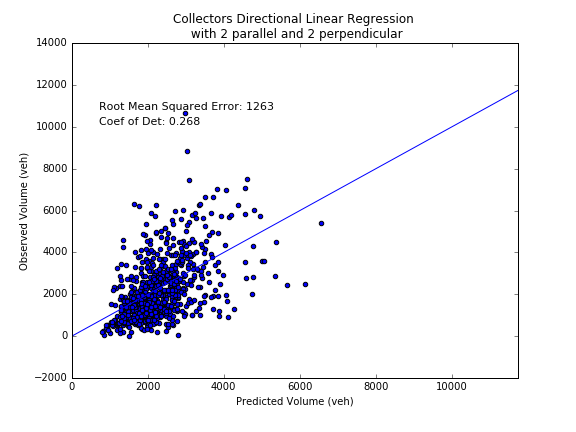
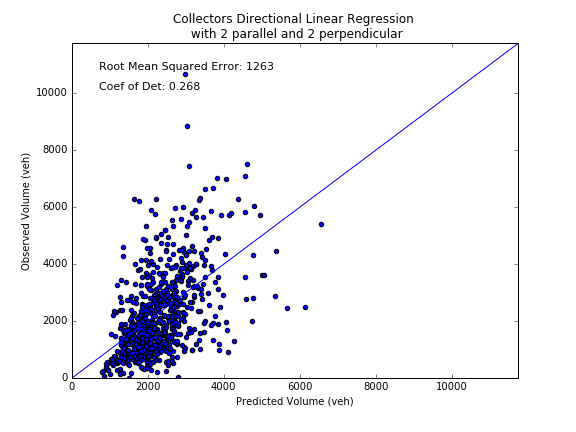
spatial extrapolation documentation
#43

diff --git a/Volume_Project/spatial_extrapolation/spatial_extrapolation.py b/Volume_Project/spatial_extrapolation/spatial_extrapolation.py
@@ -22,6 +22,7 @@ from sklearn.gaussian_process import GaussianProcessRegressor
 from sklearn.gaussian_process.kernels import RationalQuadratic
 from sklearn.gaussian_process.kernels import ExpSineSquared
 from sklearn.metrics import mean_squared_error
+from sklearn.metrics import r2_score
 from sklearn.model_selection import train_test_split
 from sklearn import linear_model
 from scipy.spatial import KDTree
@@ -30,10 +31,11 @@ from utilities import vol_utils
 
 class spatial_extrapolation(vol_utils):    
 
-    def __init__(self):
+    def __init__(self, sample_size):
         self.logger = logging.getLogger('volume_project.spatial_extrapolation')
         super().__init__()
         self.rc_lookup = {201200:'Major Arterials', 201300:'Minor Arterials', 201400:'Collectors', 201500:'Locals'}
+        self.sample_size = sample_size
         
     def get_coord_data(self, road_class):
         
@@ -44,7 +46,7 @@ class spatial_extrapolation(vol_utils):
         coord = np.array(data[['from_x','from_y','to_x','to_y']])
         
         coord = preprocessing.normalize(coord, axis=0)
-        x_train, x_test, y_train, y_test = train_test_split(coord, volume, test_size=0.3, random_state=0)
+        x_train, x_test, y_train, y_test = train_test_split(coord, volume, test_size=self.sample_size/100, random_state=0)
         kernel = RationalQuadratic(length_scale=1.0, length_scale_bounds=(1e-1, 10.0)) * RationalQuadratic(length_scale=1.0, length_scale_bounds=(1e-1, 10.0)) * ExpSineSquared(length_scale=1.0, length_scale_bounds=(1e-1, 10.0)) * ExpSineSquared(length_scale=1.0, length_scale_bounds=(1e-1, 10.0))
         gp = GaussianProcessRegressor(kernel=kernel)
         gp.fit(x_train, y_train)
@@ -66,27 +68,15 @@ class spatial_extrapolation(vol_utils):
         for i in range(10):
             neighb.append([data['volume'].iloc[kdt.query(l,k=11)[1]].iloc[i+1] for l in dist])
         neighb = np.asarray(neighb).T
-        x_train, x_test, y_train, y_test = train_test_split(neighb, orig, test_size=0.3, random_state=0)    
+        x_train, x_test, y_train, y_test = train_test_split(neighb, orig, test_size=self.sample_size/100, random_state=0)    
         regr = linear_model.LinearRegression()
         score = []
         for i in range(10):
             regr.fit(x_train[:,0:i+1], y_train)
             y_predict = regr.predict(x_test[:,0:i+1])
             if i == 9:
-                fig, ax = plt.subplots(figsize=[8,6])
-                ax.scatter(y_predict, y_test)
-                x = np.linspace(0.9*min(min(y_test),min(y_predict)), 1.1*max(max(y_predict),max(y_test)),2)
-                ax.set_xlim(x)
-                ax.set_ylim(x)
-                ax.plot(x,x)
-                ax.set_title(self.rc_lookup[road_class] + ' Linear Regression (by proximity) \n with ' + str(i+2) + ' neighbours', fontsize = 13)
-                ax.set_xlabel('Predicted Volume (veh)')
-                ax.set_ylabel('Observed Volume (veh)')
-
-                ax.annotate('Root Mean Squared Error: ' + "{:.0f}".format(np.sqrt(mean_squared_error(y_test,y_predict))), xy=((x[1]-x[0])*0.04+x[0], x[1]*0.92), fontsize = 11)
-                ax.annotate('Coef of Det: ' + "{:.3f}".format(regr.score(x_test, y_test)), xy=((x[1]-x[0])*0.04+x[0], x[1]*0.86), fontsize = 11)
+                self.ScatterPlot(y_predict, y_test, road_class, regr.score(x_test, y_test), 'proximikty_regr',  ' Linear Regression (by proximity) \n with ' + str(i+2) + ' neighbours')
                 
-                fig.savefig('spatial_extrapolation/img/'+self.rc_lookup[road_class].lower().replace(' ', '_')+'_proximity_regr.png')
             score.append(np.sqrt(mean_squared_error(y_test,y_predict)))
             
         fig, ax = plt.subplots(figsize=[8,6])    
@@ -101,42 +91,35 @@ class spatial_extrapolation(vol_utils):
         data = self.get_sql_results("query_relation_groups.sql",columns = ['group_number','neighbour_vol','volume'], parameters = [road_class])
         neighb = list(data[data['neighbour_vol'].map(len) == 4]['neighbour_vol'])
         orig = list(data[data['neighbour_vol'].map(len) == 4]['volume'])
-        x_train, x_test, y_train, y_test = train_test_split(neighb, orig, test_size=0.3, random_state=0)
+        x_train, x_test, y_train, y_test = train_test_split(neighb, orig, test_size=self.sample_size, random_state=0)
         
         regr = linear_model.LinearRegression()
         regr.fit(x_train, y_train)
         y_predict = regr.predict(x_test)
         
+        self.ScatterPlot(y_predict, y_test, road_class, regr.score(x_test, y_test), 'directional_regr', ' Directional Linear Regression \n with 2 parallel and 2 perpendicular')
+        
+    def Average_Neighbours(self, road_class):
+        data = self.get_sql_results("query_avg_neighbour_volumes.sql",columns = ['group_number','neighbour_vol','volume'], parameters = [road_class, self.sample_size])
+        y_predict = data['neighbour_vol']
+        y_test = data['volume']
+        
+        self.ScatterPlot(y_predict, y_test, road_class, r2_score(y_test, y_predict), 'neighbour_avg', ' Average of 5 Nearest Neighbours')
+    
+    def ScatterPlot(self, y_predict, y_test, road_class, coef_det, estimation_method, title_notes):
+        
         fig, ax = plt.subplots(figsize=[8,6])
         
         ax.scatter(y_predict, y_test)
-        ax.set_title(self.rc_lookup[road_class] + ' Directional Linear Regression \n with 2 parallel and 2 perpendicular')
+        ax.set_title(self.rc_lookup[road_class] + title_notes)
         ax.set_xlabel('Predicted Volume (veh)')
         ax.set_ylabel('Observed Volume (veh)')
         x = np.linspace(0.8*min(min(y_test),min(y_predict)), 1.1*max(max(y_predict),max(y_test)),2)
         ax.plot(x,x)
         
         ax.set_xlim(x)
-		ax.set_ylim(x)
-		
+        ax.set_ylim(x)
+        
         ax.annotate('Root Mean Squared Error: ' + "{:.0f}".format(np.sqrt(mean_squared_error(y_test,y_predict))), xy=((x[1]-x[0])*0.06+x[0], x[1]*0.92), fontsize = 11)
-        ax.annotate('Coef of Det: ' + "{:.3f}".format(regr.score(x_test, y_test)), xy=((x[1]-x[0])*0.06+x[0], x[1]*0.86), fontsize = 11)
-        fig.savefig('spatial_extrapolation/img/'+self.rc_lookup[road_class].lower().replace(' ','_') +'_directional_regr.png')
-        
-    def Average_Neighbours(self, data):
-        dist = np.array(data[['from_x','from_y','to_x','to_y']])
-        kdt = KDTree(dist, 12)
-        
-        orig = np.asarray([data['volume'].iloc[kdt.query(l,k=5)[1]].iloc[0] for l in dist])
-        neighb = []
-        for i in range(5):
-            neighb.append([data['volume'].iloc[kdt.query(l,k=11)[1]].iloc[i+1] for l in dist])
-        neighb = np.asarray(neighb).T
-        y_predict = np.mean(neighb,axis=1)
-        plt.scatter(y_predict, orig)
-        x = np.linspace(0.9*min(min(orig),min(y_predict)), 1.1*max(max(y_predict),max(orig)),2)
-        plt.xlim(x)
-        plt.ylim(x)
-        plt.plot(x,x)
-        plt.show()
-    
+        ax.annotate('Coef of Det: ' + "{:.3f}".format(coef_det), xy=((x[1]-x[0])*0.06+x[0], x[1]*0.86), fontsize = 11)
+        fig.savefig('spatial_extrapolation/img/'+self.rc_lookup[road_class].lower().replace(' ','_') + '_' + estimation_method + '.png')

diff --git a/Volume_Project/run.py b/Volume_Project/run.py
@@ -126,8 +126,9 @@ if __name__ == '__main__':
     del tex
     logger.info('Finished calculating AADT for Toronto in %s', str(datetime.now()-tStart))   
     '''
-    spa = spatial_extrapolation()
-    for road_class in [201200,201300,201400,201500]:
+    spa = spatial_extrapolation(30)
+    for road_class in [201300,201400,201500]:
         #spa.Linear_Regression_Prox(spa.get_coord_data(road_class), road_class)
-        spa.Linear_Regression_Directional(road_class)
+        #spa.Linear_Regression_Directional(road_class)
+        spa.Average_Neighbours(road_class)
     del spa

diff --git a/Volume_Project/spatial_extrapolation/README.md b/Volume_Project/spatial_extrapolation/README.md
@@ -25,35 +25,38 @@ Covariance matrix is constructed based on the coordinate information of the segm
 
 ### Major Arterials
 -|Linear Regression (proximity only) | Direction Linear Regression | Average of Nearest Neighbours|
--|-----------------------------------|-----------------------------|------------------------------|
-Scatter plot| ![major_arterials_proximity_regr](img/major_arterials_proximity_regr.png)|![major_arterials_directional_regr](img/major_arterials_directional_regr.png)|
-Root Mean Squared Error|||
-Coef. of Det.|||
+-|:-----------------------------------:|:----------------------------:|:------------------------------:|
+Scatter plot| ![major_arterials_proximity_regr](img/major_arterials_proximity_regr.png)|![major_arterials_directional_regr](img/major_arterials_directional_regr.png)|![major_arterials_neighbour_avg](img/major_arterials_neighbour_avg.png)|
+Root Mean Squared Error|4374|4232|4554|
+Coef. of Det.|0.480|0.542|0.492
 
 ![major_arterials_proximity_regr_scores](img/major_arterials_proximity_regr_scores.png)
 
 ### Minor Arterials
 -|Linear Regression (proximity only) | Direction Linear Regression| Average of Nearest Neighbours|
--|-----------------------------------|----------------------------|------------------------------|
-Scatter plot| ![minor_arterials_proximity_regr](img/minor_arterials_proximity_regr.png)|![minor_arterial_directional_regr](img/minor_arterials_directional_regr.png)|
-Root Mean Squared Error||||
-Coef. of Det.||||
+-|:-----------------------------------:|:----------------------------:|:------------------------------:|
+Scatter plot| ![minor_arterials_proximity_regr](img/minor_arterials_proximity_regr.png)|![minor_arterial_directional_regr](img/minor_arterials_directional_regr.png)|![minor_arterial_neighbour_avg](img/minor_arterials_neighbour_avg.png)|
+Root Mean Squared Error|2285|2143|2067|
+Coef. of Det.|0.345|0.461|0.341|
+
 ![minor_arterials_proximity_regr_scores](img/minor_arterials_proximity_regr_scores.png)
 
 ### Collectors
 -|Linear Regression (proximity only) | Direction Linear Regression| Average of Nearest Neighbours|
--|-----------------------------------|----------------------------|------------------------------|
-Scatter plot| ![collectors_proximity_regr](img/collectors_proximity_regr.png)|![collectors_directional_regr](img/collectors_directional_regr.png)|
-Root Mean Squared Error||||
-Coef. of Det.||||
+-|:-----------------------------------:|:----------------------------:|:------------------------------:|
+Scatter plot| ![collectors_proximity_regr](img/collectors_proximity_regr.png)|![collectors_directional_regr](img/collectors_directional_regr.png)|![collectors_neighbour_avg](img/collectors_neighbour_avg.png)|
+Root Mean Squared Error|1349|1263|1233|
+Coef. of Det.|0.312|0.268|0.364|
+
 ![collectors_proximity_regr_scores](img/collectors_proximity_regr_scores.png)
 
 ### Locals
 -|Linear Regression (proximity only) | Direction Linear Regression| Average of Nearest Neighbours|
--|-----------------------------------|----------------------------|------------------------------|
-Scatter Plot|![locals_proximity_regr](img/locals_proximity_regr.png)|![locals_directional_regr](img/locals_directional_regr.png)|
-Root Mean Squared Error||||
-Coef. of Det.||||
+-|:-----------------------------------:|:----------------------------:|:------------------------------:|
+Scatter Plot|![locals_proximity_regr](img/locals_proximity_regr.png)|![locals_directional_regr](img/locals_directional_regr.png)|![locals_neighbour_avg](img/locals_neighbour_avg.png)|
+Root Mean Squared Error|736|732|718|
+Coef. of Det.|0.230|0.046|0.213|
+
 ![locals_proximity_regr_scores](img/locals_proximity_regr_scores.png)
 
 ## Current Implementation
